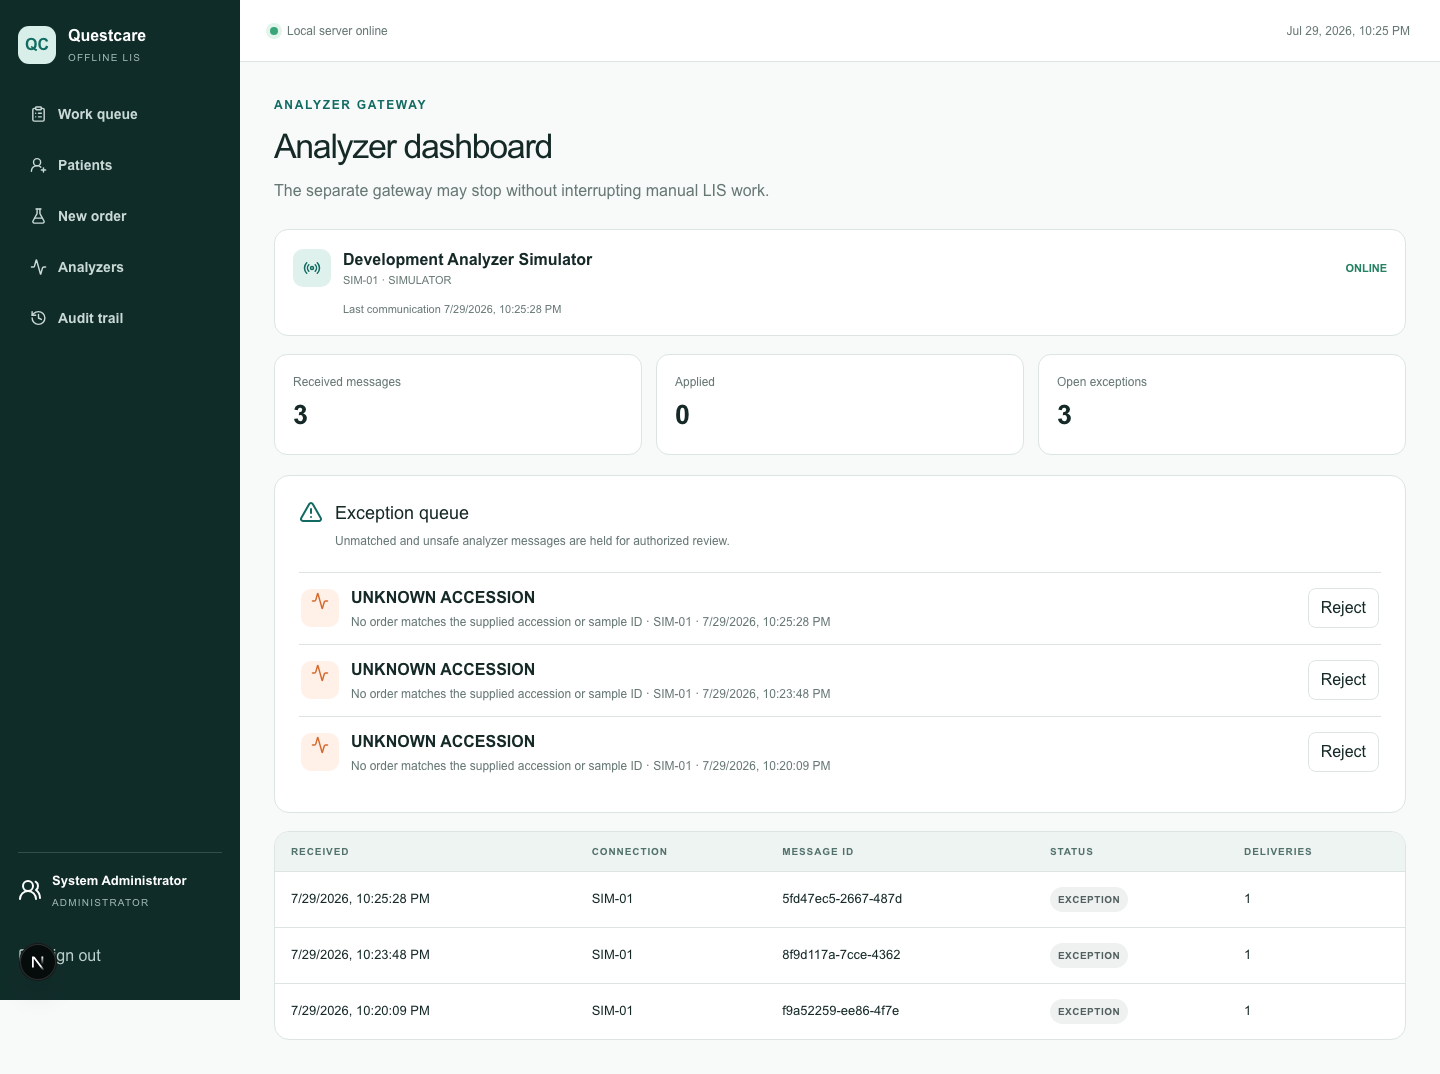
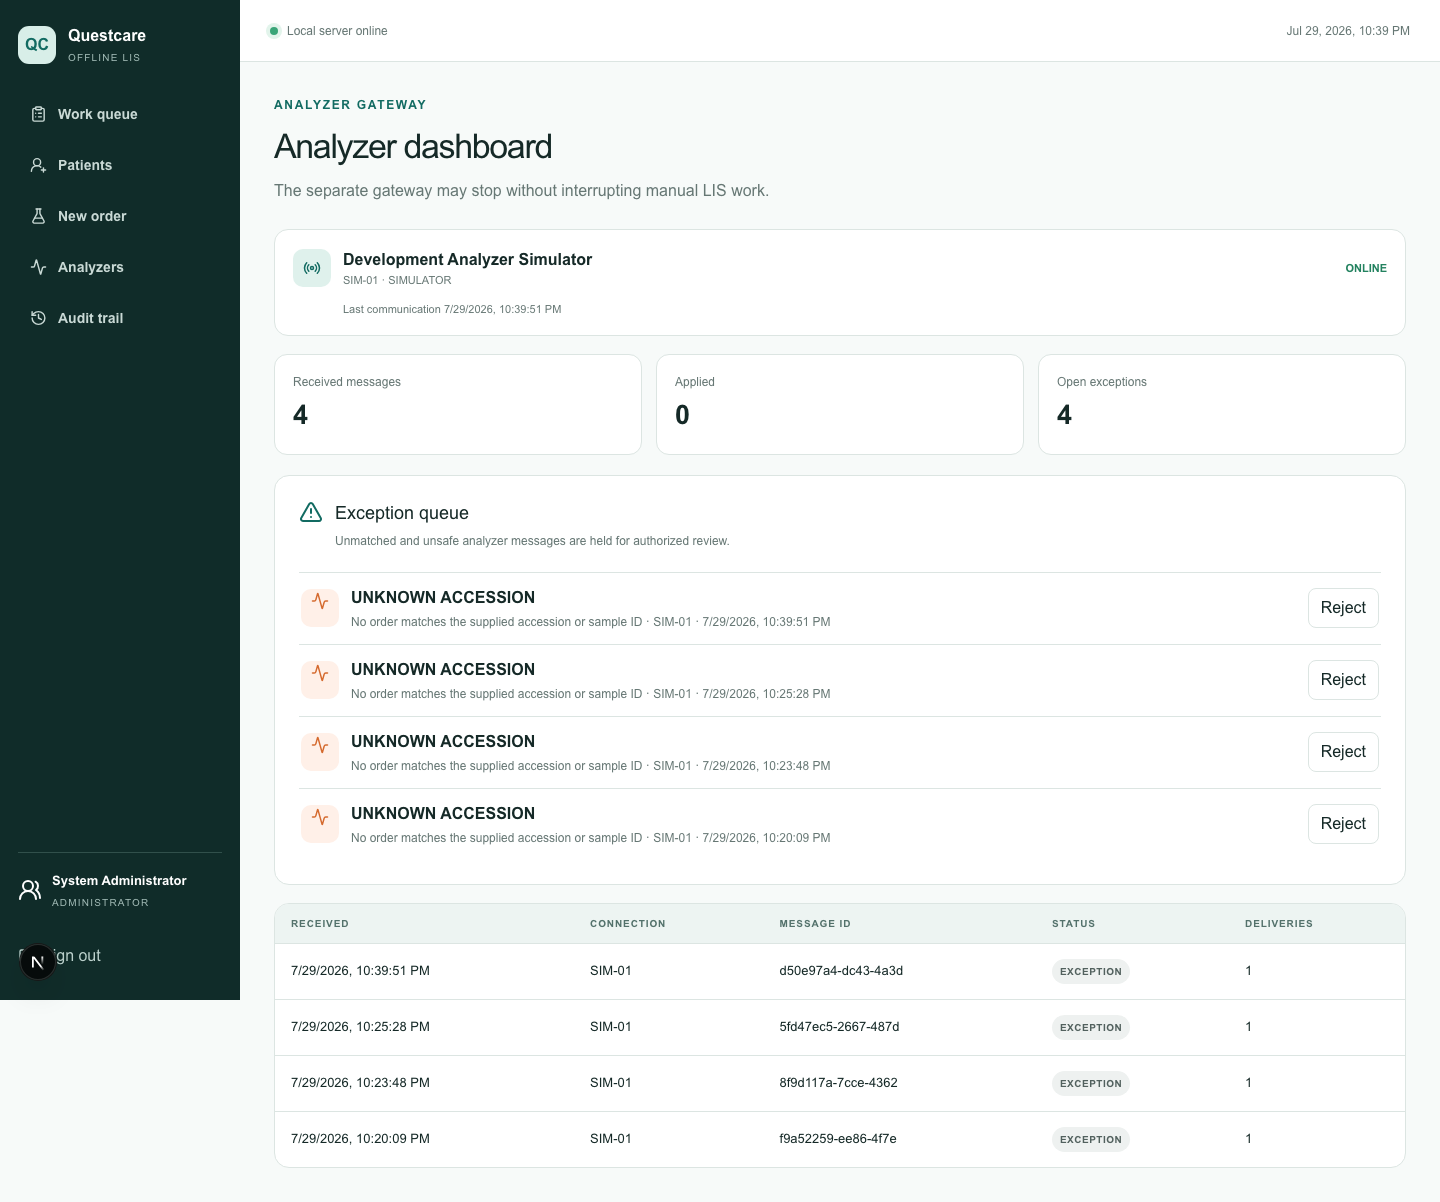
fix: bind development server to login origin

diff --git a/apps/lis/playwright.config.ts b/apps/lis/playwright.config.ts
@@ -1,2 +1,2 @@
 import { defineConfig } from "@playwright/test";
-export default defineConfig({testDir:"./tests/e2e",fullyParallel:false,timeout:60_000,expect:{timeout:15_000},retries:0,reporter:[["list"],["html",{outputFolder:"../../docs/test-evidence/playwright-report",open:"never"}]],use:{baseURL:"http://127.0.0.1:3000",viewport:{width:1440,height:1000},trace:"retain-on-failure"},webServer:{command:"pnpm dev --hostname 127.0.0.1",url:"http://127.0.0.1:3000/login",reuseExistingServer:true,timeout:120_000}});
+export default defineConfig({testDir:"./tests/e2e",fullyParallel:false,timeout:60_000,expect:{timeout:15_000},retries:0,reporter:[["list"],["html",{outputFolder:"../../docs/test-evidence/playwright-report",open:"never"}]],use:{baseURL:"http://127.0.0.1:3000",viewport:{width:1440,height:1000},trace:"retain-on-failure"},webServer:{command:"pnpm dev",url:"http://127.0.0.1:3000/login",reuseExistingServer:true,timeout:120_000}});
